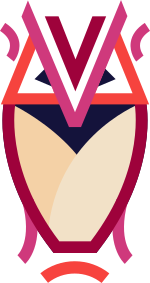
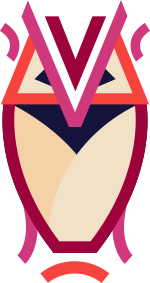
Minor adjustements

Changed region(s): [[0.1067, 0.1696, 0.3733, 0.3392], [0.64, 0.1696, 0.88, 0.3392]]

diff --git a/_includes/header.html b/_includes/header.html
@@ -3,7 +3,7 @@
         <div class="container">
             <div class="row">
                 <div class="col-lg-4 col-sm-12">
-                    <img src="/img/SavasOwl_larger.png" alt="Savas Logo" width="62px" height="114px">
+                    <img src="/img/SavasOwl_large.png" alt="Savas Logo" width="62px" height="114px">
                     <h1>Savas Labs</h1>
                     <div class="intro-text">
                         <span class="skills">A web development<br>and design shop</span>
@@ -13,7 +13,7 @@
                     <ul>
                     <li>Ready to build <em>your</em> vision for your site</li>
                     <li>Founded on years of Drupal experience</li>
-                    <li>Focused on creating standards compliant, sustainable code</li>
+                    <li>Focused on creating standards-compliant, sustainable code</li>
                     <li>A learning environment, where we draw on diverse experience to teach each other best practices and standards</li>
                     <li>Skilled in all aspects of development, from back-end to theming and testing</li>
                         </ul>

diff --git a/_includes/css/main.css b/_includes/css/main.css
@@ -142,7 +142,7 @@ header .right-frame li {
 }
 
 .navbar li {
-    font-size: 22px;
+    font-size: 18px;
 }
 
 .navbar a:focus {
